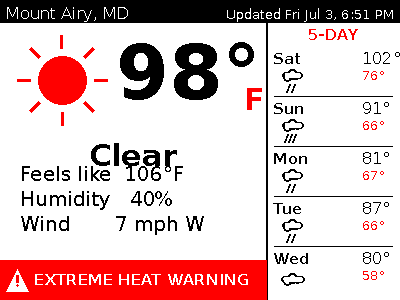
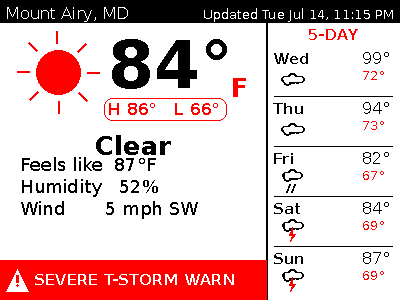
Show today's forecast Hi/Lo on the main panel; tighten typography
- Add a red-outlined 'H 88 deg  L 68 deg' pill under the big current
  temperature so today's range is visible at a glance.
- Resize fonts for better fit on the 400x300 panel: big temp 76 -> 66pt,
  condition/unit 30 -> 26pt, detail rows 20 -> 18pt (tighter line gap).
- Shrink the current-weather icon 96 -> 88px and shift the description &
  detail rows up slightly so the added Hi/Lo pill fits cleanly, with or
  without the alert banner.
- Refresh the two committed screen renders and the ASCII layout sketch
  in weather.py, and update the README intro to mention the H/L chip.

diff --git a/weather.py b/weather.py
@@ -14,12 +14,12 @@ Layout
 +--------------------------------------------------+
 |  LAST UPDATED ............ (top strip)           |
 +----------------------------+---------------------+
-|                            |  Mon  [icon]  88/68 |
-|   CURRENT WEATHER          |  Tue  [icon]  90/65 |
-|   (left 2/3 "window")      |  Wed  [icon]  92/68 |
-|   big temp, icon, desc,    |  Thu  [icon]  96/68 |
-|   feels-like, humidity,    |  Fri  [icon]  98/75 |
-|   wind                     |                     |
+|  [icon]  BIG TEMP  F       |  Mon  [icon]  88/68 |
+|          (H 88\u00b0  L 68\u00b0)      |  Tue  [icon]  90/65 |
+|         Description        |  Wed  [icon]  92/68 |
+|   Feels like  ..           |  Thu  [icon]  96/68 |
+|   Humidity    ..           |  Fri  [icon]  98/75 |
+|   Wind        ..           |                     |
 | [!! RED ALERT BANNER !!]   |                     |
 +----------------------------+---------------------+
 
@@ -99,16 +99,18 @@ def load_fonts():
     bold = candidates[1]
     try:
         return {
-            "huge": ImageFont.truetype(bold, 76),
-            "big": ImageFont.truetype(bold, 30),
-            "med": ImageFont.truetype(regular, 20),
+            "huge": ImageFont.truetype(bold, 66),      # big current temp
+            "big": ImageFont.truetype(bold, 26),       # condition label / unit
+            "med": ImageFont.truetype(regular, 18),    # detail rows
+            "hilo": ImageFont.truetype(bold, 16),      # today's hi/lo pill
             "small": ImageFont.truetype(regular, 16),
             "tiny": ImageFont.truetype(regular, 13),
             "day_bold": ImageFont.truetype(bold, 15),
         }
     except OSError:
         d = ImageFont.load_default()
-        return {k: d for k in ("huge", "big", "med", "small", "tiny", "day_bold")}
+        return {k: d for k in ("huge", "big", "med", "hilo", "small", "tiny",
+                               "day_bold")}
 
 
 # ---------------------------------------------------------------------------
@@ -299,29 +301,46 @@ def render(data, fonts, alerts=None):
 
     left_cx = split_x // 2
 
+    # Today's forecast high/low (index 0 = today) shown next to the current
+    # temperature so you can see at a glance how much more the day still has
+    # to give.
+    today_hi = round(daily["temperature_2m_max"][0])
+    today_lo = round(daily["temperature_2m_min"][0])
+
     # big current icon, top-left of the window
-    icon_size = 96
-    icons.draw_icon(draw, code, 14, strip_h + 10, icon_size, is_day=is_day)
+    icon_size = 88
+    icons.draw_icon(draw, code, 14, strip_h + 6, icon_size, is_day=is_day)
 
     # big temperature to the right of the icon
     temp_str = f"{temp}\u00b0"
-    temp_x = 116
-    draw.text((temp_x, strip_h + 6), temp_str, font=fonts["huge"], fill=BLACK)
+    temp_x = 108
+    draw.text((temp_x, strip_h + 4), temp_str, font=fonts["huge"], fill=BLACK)
+    temp_w = draw.textlength(temp_str, font=fonts["huge"])
     # small unit letter, tucked just under the degree symbol so it never
     # collides with the column divider
-    unit_x = temp_x + draw.textlength(temp_str, font=fonts["huge"]) - 2
-    # keep the unit letter safely inside the left column
-    unit_x = min(unit_x, split_x - 22)
-    draw.text((unit_x, strip_h + 60), TEMP_SYMBOL, font=fonts["big"], fill=RED)
+    unit_x = min(temp_x + temp_w - 2, split_x - 20)
+    draw.text((unit_x, strip_h + 50), TEMP_SYMBOL, font=fonts["big"], fill=RED)
 
-    # condition description, centred under the icon/temp block
+    # Today's Hi / Lo, just below the big temperature.
+    hilo_str = f"H {today_hi}\u00b0   L {today_lo}\u00b0"
+    hilo_w = draw.textlength(hilo_str, font=fonts["hilo"])
+    # keep the pill aligned under the big temperature block
+    hilo_x = temp_x
+    hilo_y = strip_h + 78
+    # subtle red outline pill so it reads as a distinct today-summary chip
+    draw.rounded_rectangle(
+        [hilo_x - 4, hilo_y - 2, hilo_x + hilo_w + 6, hilo_y + 20],
+        radius=8, outline=RED, width=1)
+    draw.text((hilo_x, hilo_y), hilo_str, font=fonts["hilo"], fill=RED)
+
+    # condition description, centred under the icon/temp/hi-lo block
     desc = wmo_text(code)
-    text_centered(draw, left_cx, strip_h + 116, desc, fonts["big"], BLACK)
+    text_centered(draw, left_cx, strip_h + 108, desc, fonts["big"], BLACK)
 
     # detail rows (nudge up slightly when a banner is present so nothing
     # collides with it)
-    detail_y = strip_h + 150 - (10 if banner_h else 0)
-    line_gap = 25
+    detail_y = strip_h + 144 - (12 if banner_h else 0)
+    line_gap = 22
     details = [
         f"Feels like  {feels}\u00b0{TEMP_SYMBOL}",
         f"Humidity   {humidity}%",

diff --git a/README.md b/README.md
@@ -2,8 +2,9 @@
 
 A simple, **inexpensive weather station** built around a Pimoroni Inky wHAT
 e-ink display and a Raspberry Pi Zero 2 W. It shows the **current conditions**
-in a large window on the left two-thirds of the screen, a **5-day forecast** as
-icons with high/low temperatures on the right third, and a **"last updated"**
+in a large window on the left two-thirds of the screen — including the current
+temperature, a **today's high/low** chip, feels-like, humidity, and wind — with
+a **5-day forecast** as icons on the right third and a **"last updated"**
 timestamp along the top. When the National Weather Service has an active
 **watch or warning** for your location, a bold **red alert banner** appears
 across the bottom of the current-conditions window. It refreshes **every 30